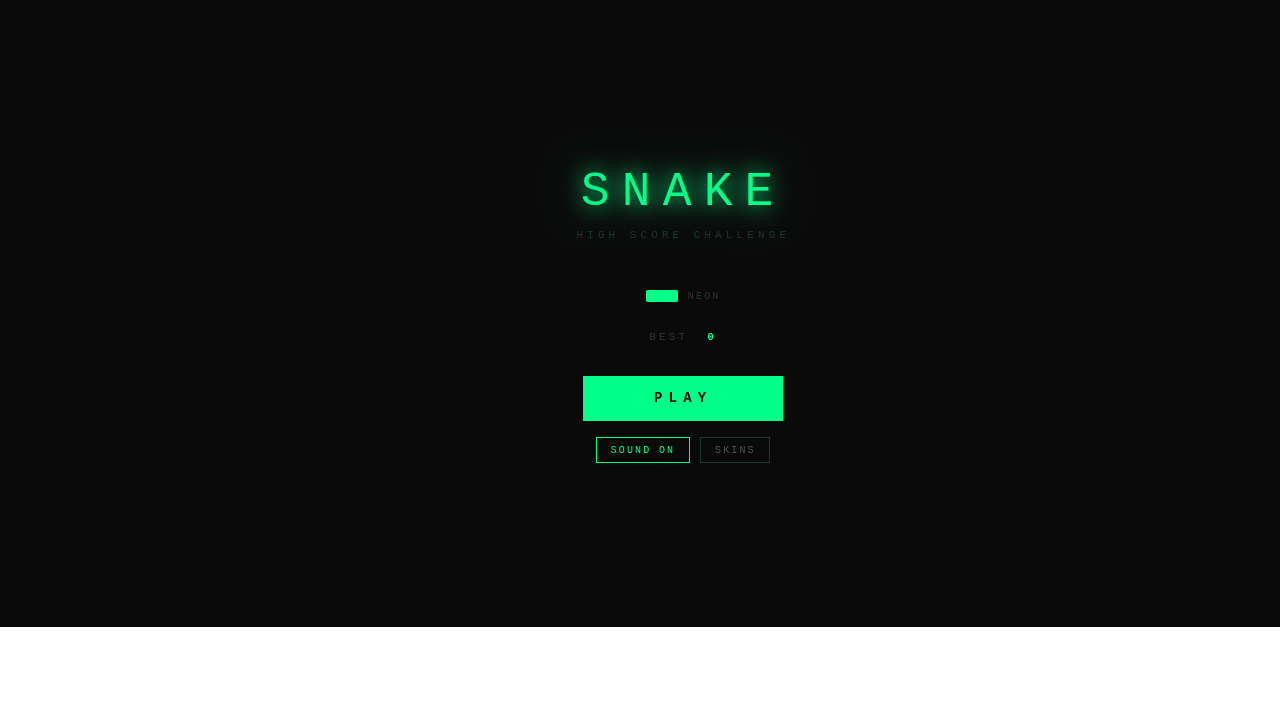
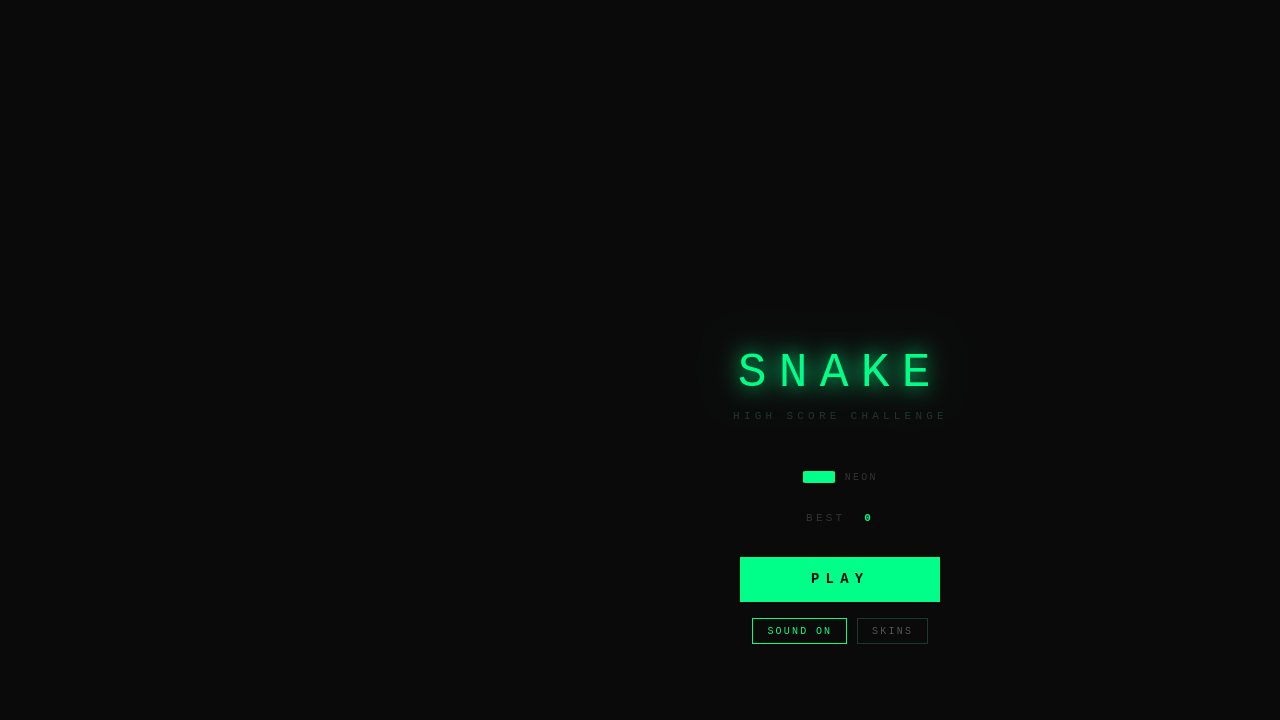
docs: add main menu screenshot and update README with 4 screenshots (Main Menu, Gameplay, Game Over/Leaderboard, Skin Picker)

diff --git a/README.md b/README.md
@@ -8,6 +8,9 @@ A single-file Snake game with procedural chiptune music, a skin unlock system, a
 
 ## Screenshots
 
+### Main Menu
+![Main Menu](screenshots/menu.png)
+
 ### Gameplay
 ![Gameplay](screenshots/gameplay.png)
 